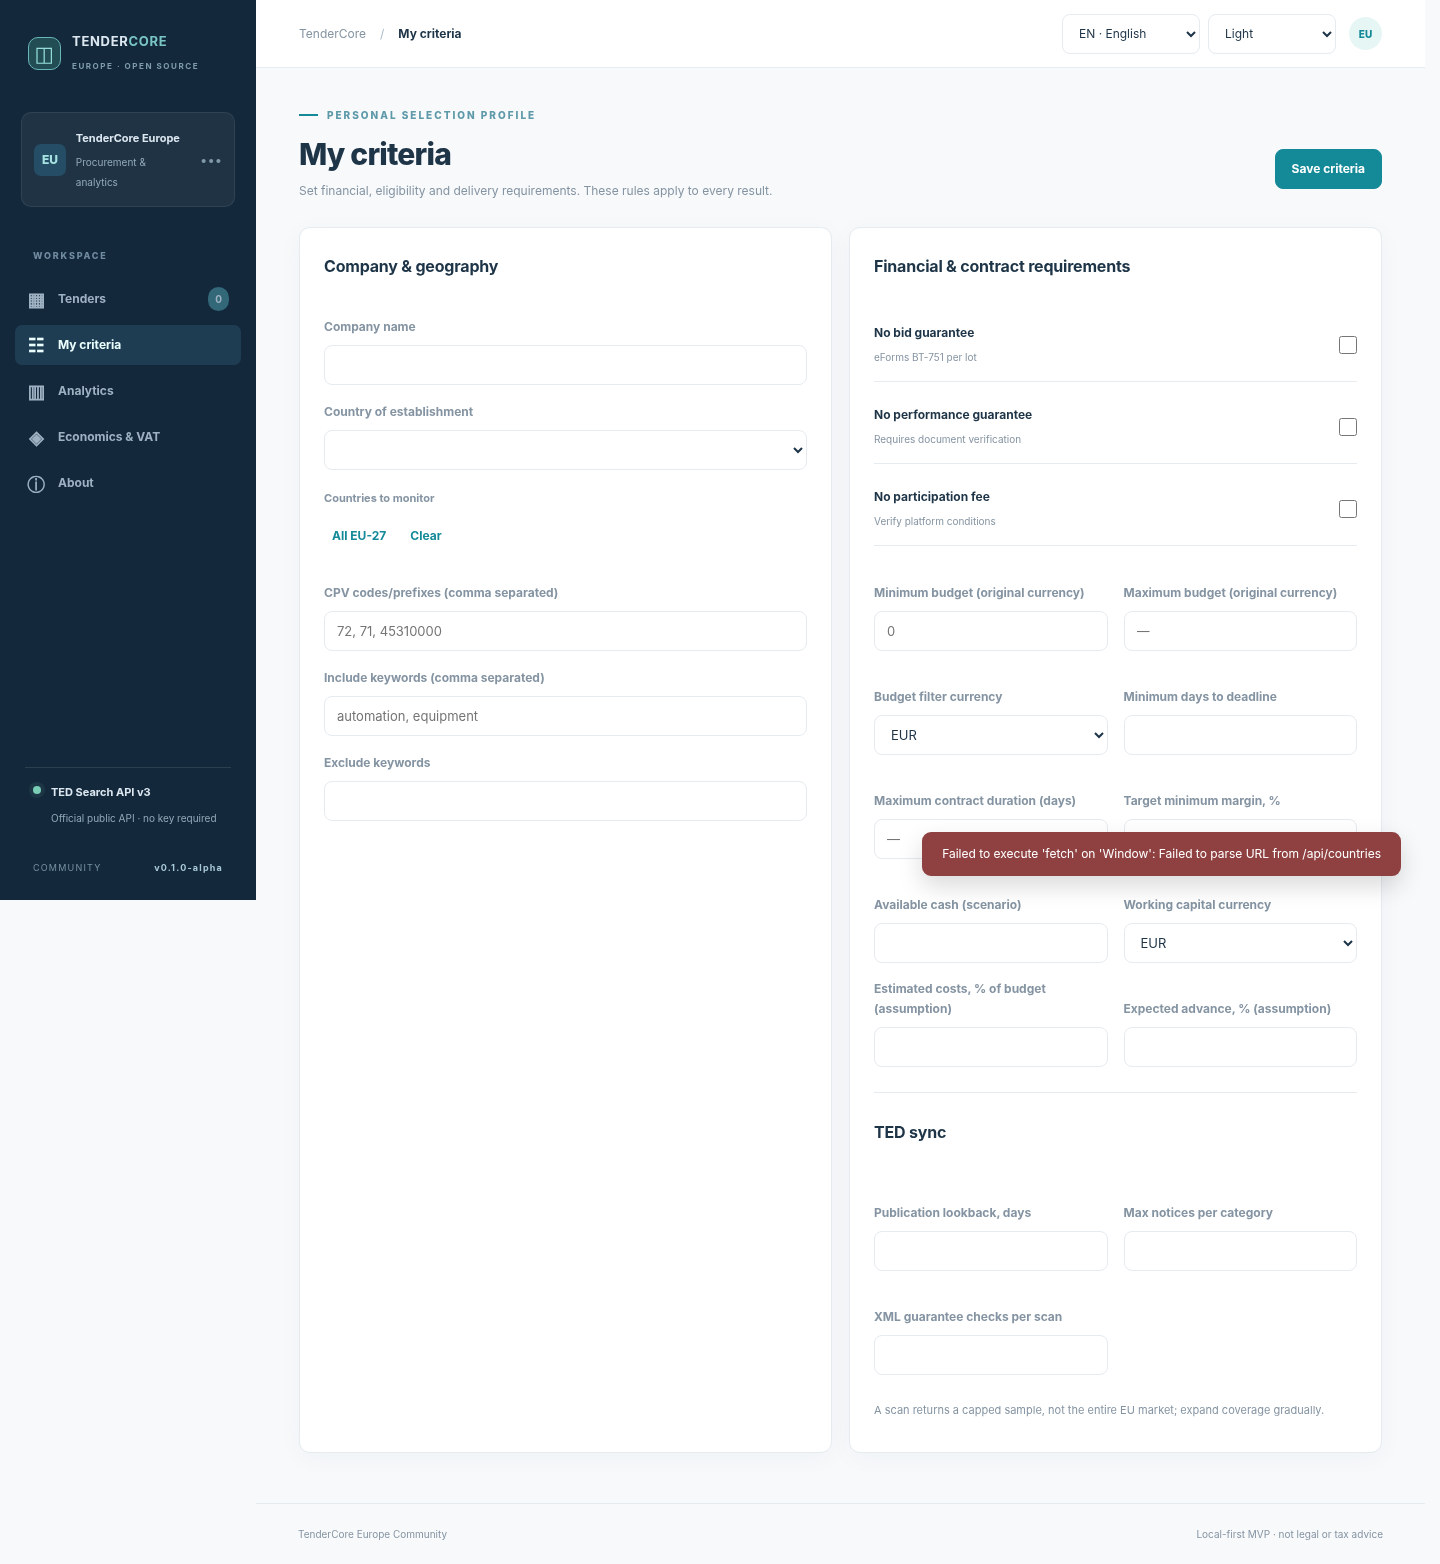
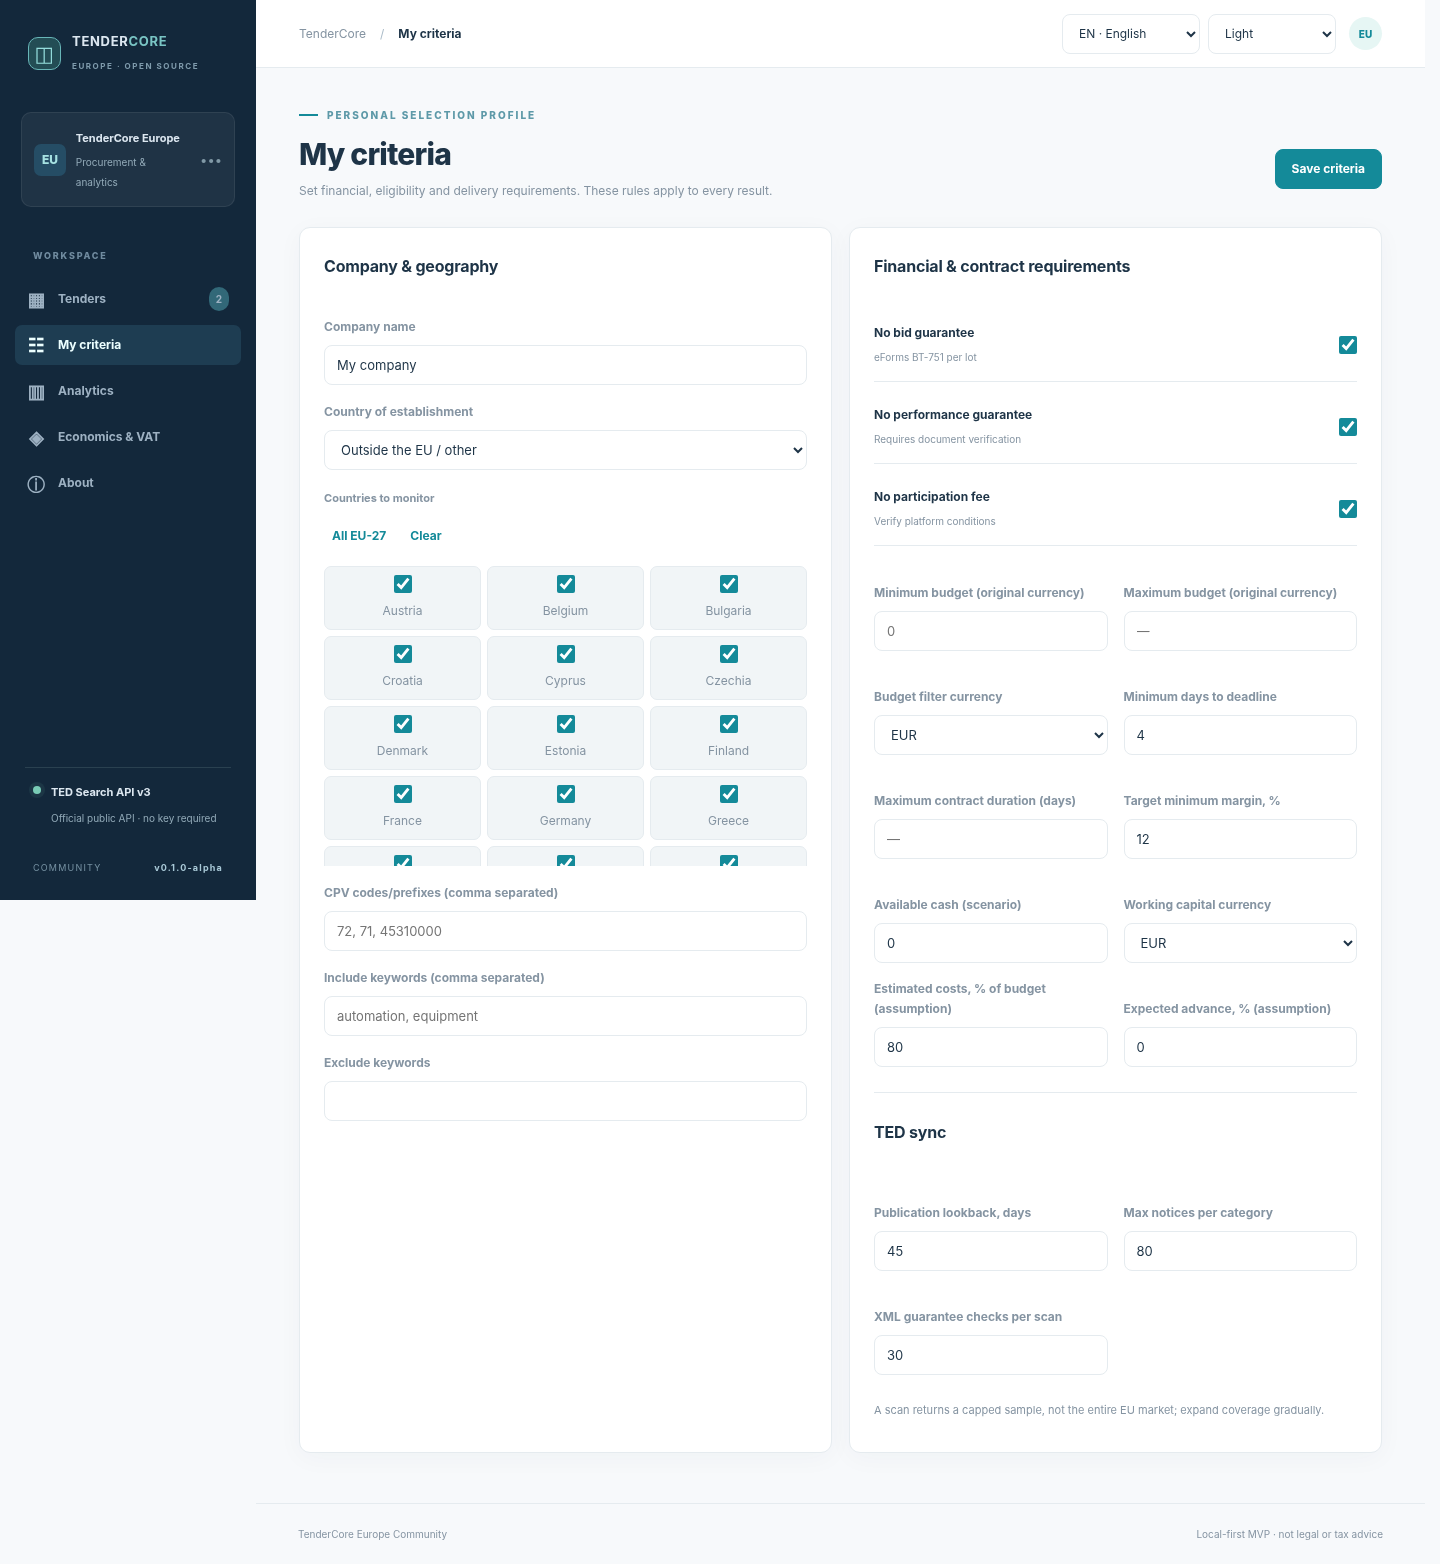
docs: replace broken screenshots with verified API-backed demo captures

diff --git a/scripts/capture_screenshots.py b/scripts/capture_screenshots.py
@@ -1,0 +1,119 @@
+#!/usr/bin/env python3
+"""Capture README screenshots against the *real FastAPI app* using an in-process ASGI bridge.
+
+Browser network access is not required. No live TED calls are made; examples are synthetic.
+Requires: pip install -r requirements-dev.txt && python -m playwright install chromium
+"""
+from __future__ import annotations
+
+import sys
+from pathlib import Path
+from shutil import which
+from tempfile import TemporaryDirectory
+
+from fastapi.testclient import TestClient
+from playwright.sync_api import sync_playwright
+
+ROOT = Path(__file__).resolve().parents[1]
+sys.path.insert(0, str(ROOT))
+import app as application  # noqa: E402
+
+# The browser runs on an offline page; intercept only same-origin API calls and
+# serve them directly from the real FastAPI app. A raw file:// or about:blank
+# page without this bridge generates "Failed to parse URL from /api/countries".
+API_BRIDGE = """<script>
+window.__test_storage = { getItem: () => null, setItem: () => {} };
+window.fetch = async (resource, options = {}) => {
+  const url = new URL(String(resource), 'http://testserver');
+  if (!url.pathname.startsWith('/api/')) throw Error('Unexpected request: ' + url.pathname);
+  const result = await window.__asgiCall(url.pathname + url.search,
+                                        options.method || 'GET', options.body || null);
+  return new Response(result.body, {
+    status: result.status,
+    headers: {'Content-Type': result.content_type}
+  });
+};
+</script>"""
+
+
+def build_document() -> str:
+    root = ROOT / 'static'
+    html = (root / 'index.html').read_text(encoding='utf-8')
+    for css in ('styles.css', 'design-system.css'):
+        html = html.replace(
+            f'<link rel="stylesheet" href="/static/{css}">',
+            f'<style>{(root / css).read_text(encoding="utf-8")}</style>',
+        )
+    for js in ('app.js', 'tax_v04_ui.js'):
+        content = (root / js).read_text(encoding='utf-8')
+        if js == 'app.js':
+            content = content.replace('localStorage.', 'window.__test_storage.')
+        html = html.replace(f'<script src="/static/{js}" defer></script>', f'<script>{content}</script>')
+    return html.replace('</head>', API_BRIDGE + '</head>')
+
+
+def run() -> None:
+    target = ROOT / 'docs' / 'screenshots'
+    target.mkdir(parents=True, exist_ok=True)
+    with TemporaryDirectory(prefix='tendercore-screenshots-') as work:
+        original_db = application.DB
+        application.DB = Path(work) / 'screenshots.sqlite3'
+        try:
+            with TestClient(application.app) as client:
+                def handle(path: str, method: str, body: str | None):
+                    res = client.request(
+                        method,
+                        path,
+                        content=body,
+                        headers={'Content-Type': 'application/json'} if body else None,
+                    )
+                    if res.status_code >= 400:
+                        raise AssertionError(f'API returned HTTP {res.status_code}: {method} {path}')
+                    return {'status': res.status_code,
+                            'body': res.text,
+                            'content_type': res.headers.get('content-type', 'application/json')}
+
+                with sync_playwright() as p:
+                    executable = which('chromium') or which('chromium-browser')
+                    opts = {'executable_path': executable} if executable else {}
+                    browser = p.chromium.launch(headless=True, args=['--no-sandbox'], **opts)
+                    try:
+                        page = browser.new_page(viewport={'width': 1440, 'height': 900}, device_scale_factor=1)
+                        errors = []
+                        page.on('pageerror', lambda error: errors.append(str(error)))
+                        page.on('console', lambda message: errors.append(message.text) if message.type == 'error' else None)
+                        page.expose_function('__asgiCall', handle)
+                        page.set_content(build_document(), wait_until='domcontentloaded')
+                        page.wait_for_function("document.querySelectorAll('#country-grid input').length === 27")
+                        page.locator('#language').select_option('en')
+                        page.locator('#theme').select_option('light')
+                        page.locator('#demo-toggle').click()
+                        page.wait_for_function("document.querySelectorAll('.tender-card').length >= 2")
+                        assert page.locator('#demo-warning').is_visible(), 'Demo disclaimer missing'
+                        assert not page.locator('#toast').is_visible(), f"Visible error: {page.locator('#toast').inner_text()}"
+                        assert not errors, f'Browser errors: {errors}'
+                        page.screenshot(path=str(target / 'dashboard.png'), full_page=True)
+                        print('Dashboard: API-backed demo cards, no errors')
+
+                        page.locator('.navlink[data-page="criteria"]').click()
+                        page.wait_for_function("document.querySelector('#country-grid').children.length > 0")
+                        assert not page.locator('#toast').is_visible(), 'Toast appeared on settings'
+                        assert not errors, f'Browser errors: {errors}'
+                        page.screenshot(path=str(target / 'settings.png'), full_page=True)
+                        print('Settings: data populated, no errors')
+
+                        page.locator('.navlink[data-page="tenders"]').click()
+                        page.locator('#theme').select_option('dark')
+                        page.wait_for_timeout(100)
+                        page.screenshot(path=str(target / 'dashboard-dark.png'), full_page=True)
+                        assert not page.locator('#toast').is_visible(), 'Toast appeared in dark mode'
+                        assert not errors, f'Browser errors: {errors}'
+                        print('Dark theme: captured')
+                    finally:
+                        browser.close()
+        finally:
+            application.DB = original_db
+
+
+if __name__ == '__main__':
+    run()

diff --git a/README.md b/README.md
@@ -3,7 +3,7 @@
 **Open-source, self-hosted European public-tender discovery and preliminary eligibility assessment.**  
 **Status: `v0.1.0-alpha`** — experimental release based on internal TenderCore Europe MVP v0.4.2. Not production-ready.
 
-![TenderCore Europe Community interface, offline empty state](docs/screenshots/dashboard.png)
+![TenderCore Europe Community dashboard, synthetic demo notices](docs/screenshots/dashboard.png)
 
 TenderCore Europe helps suppliers explore public tenders published in [Tenders Electronic Daily (TED)](https://ted.europa.eu/), inspect tender and lot information, flag potentially restrictive financial terms, and track their own participation decisions.
 
@@ -51,9 +51,21 @@ The Compose configuration binds the service to **127.0.0.1 only** and persists l
 
 ## Screenshots
 
-Screenshots show the interface only, not validated TED results.
+Screenshots are generated against the local FastAPI API using **synthetic demo notices**, not actual TED opportunities. They are tested for browser errors before being saved.
 
-![Criteria settings, offline empty state](docs/screenshots/settings.png)
+![Criteria settings, demo profile](docs/screenshots/settings.png)
+
+![Dashboard in dark mode, demo notices](docs/screenshots/dashboard-dark.png)
+
+To regenerate verified screenshots:
+
+```bash
+python -m pip install -r requirements-dev.txt
+python -m playwright install chromium
+python scripts/capture_screenshots.py
+```
+
+Do not capture a raw `file://` or `about:blank` HTML preview without its API: relative `/api/...` requests will fail. The screenshot script uses an in-process FastAPI test client and avoids real TED requests.
 
 ## Development
 

diff --git a/docs/RELEASE_CHECKLIST.md b/docs/RELEASE_CHECKLIST.md
@@ -4,6 +4,7 @@
 - [x] Apache-2.0 license and basic contribution/security policies included.
 - [x] No `.env`, personal SQLite, cache or local report included in packaging.
 - [x] Offline Python tests run.
+- [x] Screenshots regenerated from synthetic examples with live in-process API responses and no browser errors.
 - [ ] End-to-end TED Search API and representative eForms XML tested from a live network.
 - [ ] Real-world eForms/lot mapping manually validated against official TED notices.
 - [ ] Third-party dependency-license and supply-chain audit completed.
